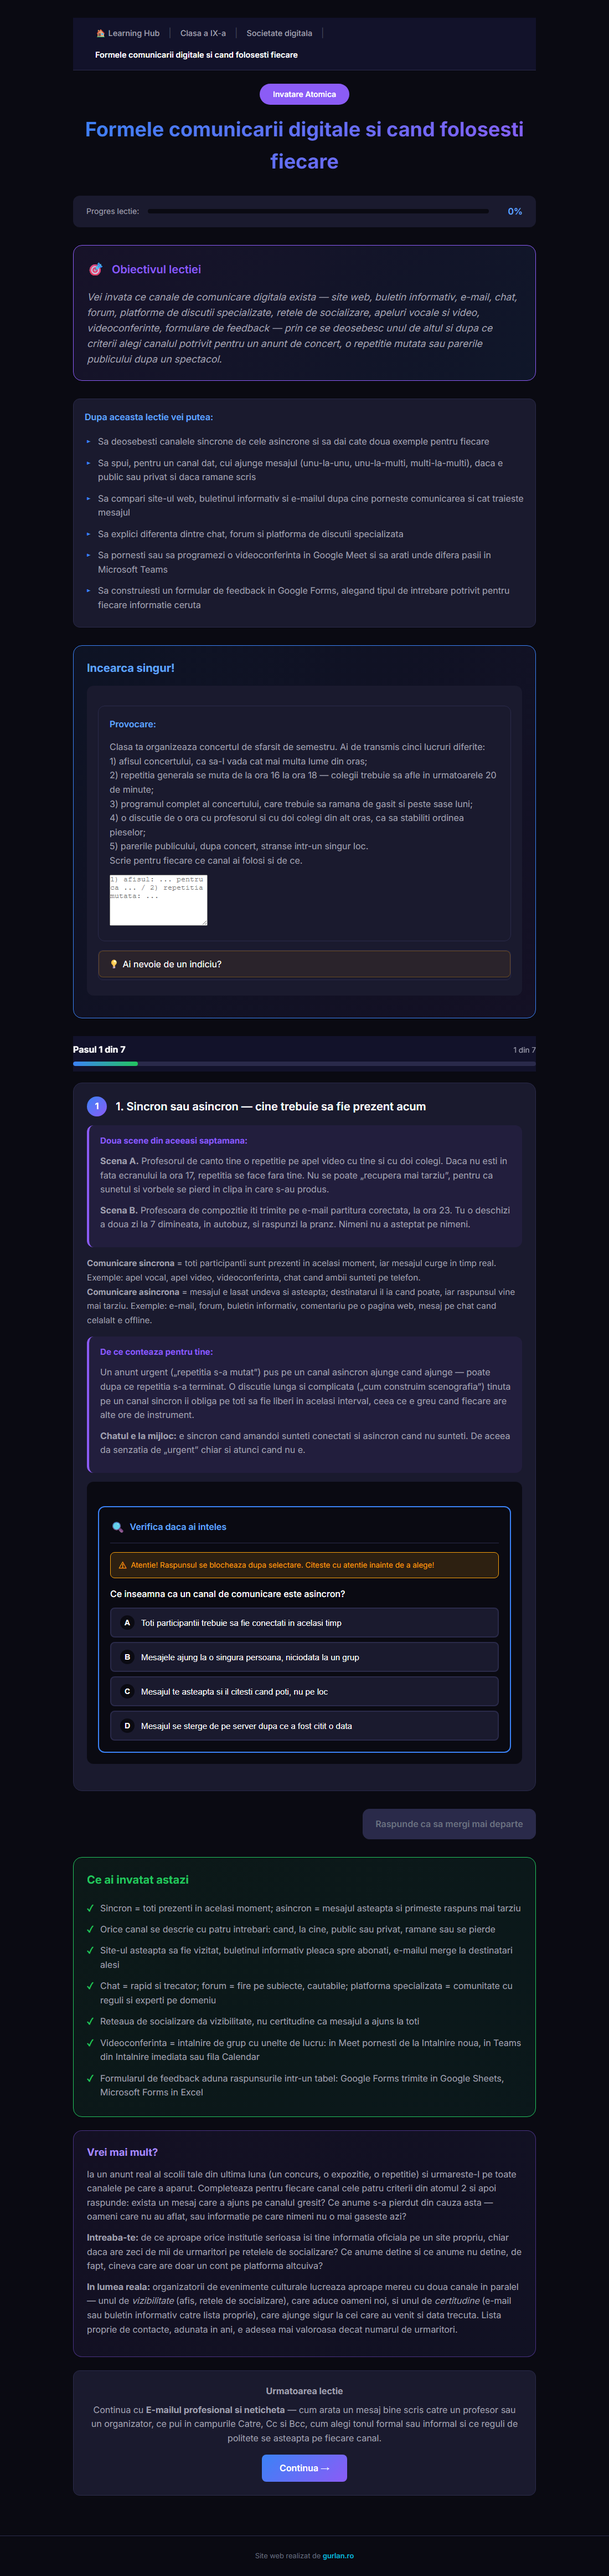
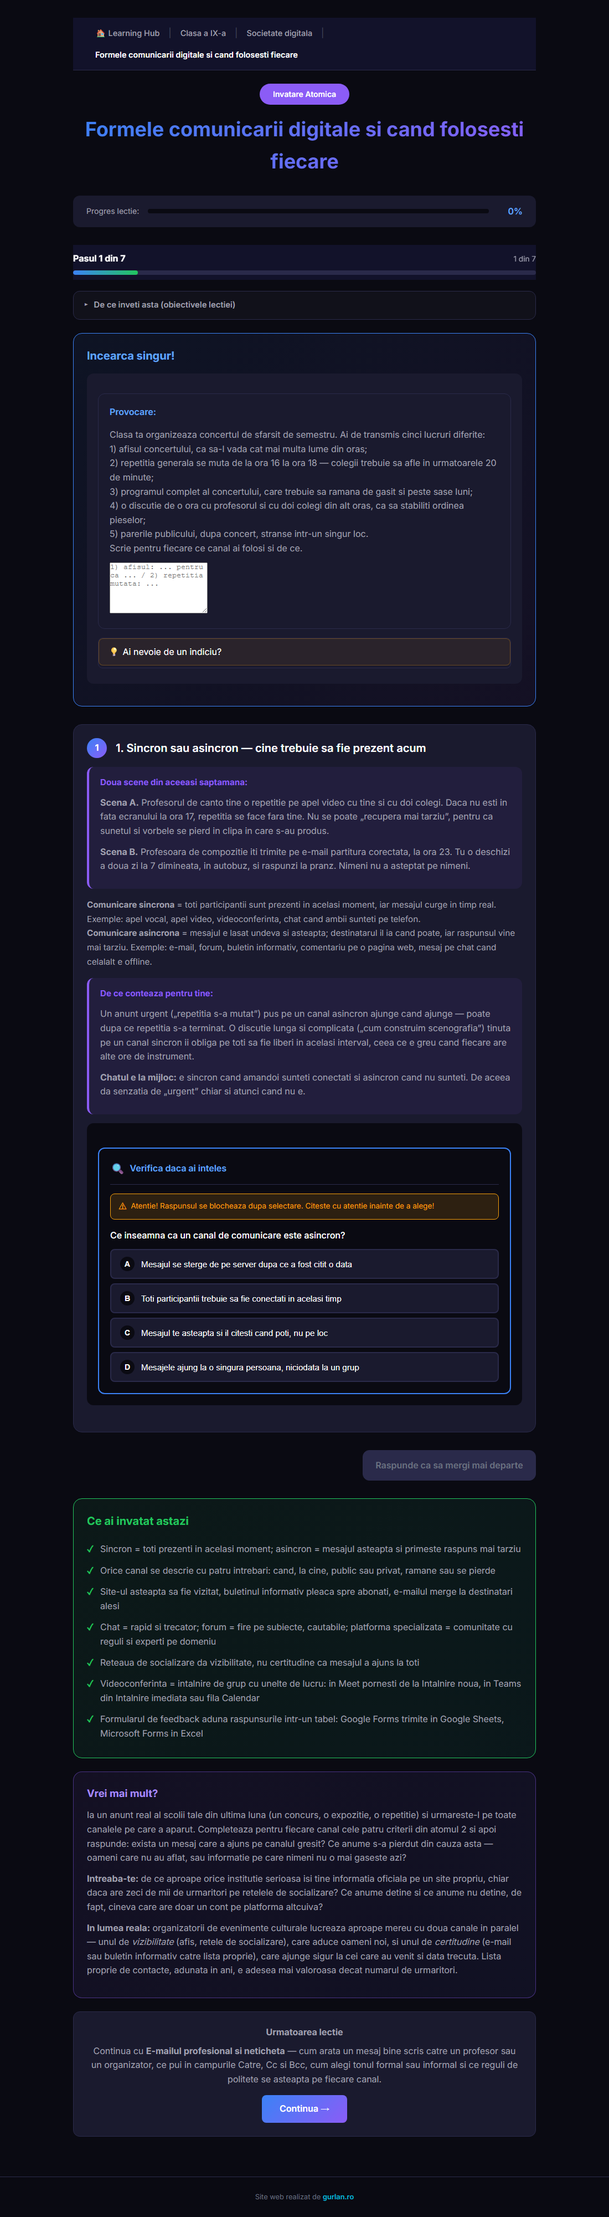
fix: exercitiile erau ascunse PE TOATE cele 531 de lectii + treaba urca sus in pagina
DEFECTUL MARE, gasit din intamplare verificand altceva. lesson-summary.js:121
(hookPracticeVisibility) ascundea sectiunea de exercitii si o readucea DOAR prin
ambalarea lui window.goToStep - functie din sablonul VECHI, cu pasi numerotati.
Lectiile atomice (Format C) n-au goToStep. Masurat: 531 din 531 de lectii incarca
lesson-summary.js, au sectiune de exercitii, si NU au goToStep. Adica exercitiile
n-au fost vazute niciodata de niciun elev, fara nicio eroare in consola.
Exact reclamatia elevului mediu din proba de calitate: 'nu pot lucra acasa'.
Reparatie: nu ascunde ce nu stii sa mai arati - daca goToStep nu exista, iesi.
Verificat pe 5 lectii din sectiuni diferite: ascunse la start, vizibile la final.

TREABA URCA SUS. Masurat pe 10 lectii: pana la 'Pasul 1 din N' erau in mediana
1560 px si 265 de cuvinte de derulat (obiective + 'incearca'). Acum contorul st
deasupra lor, iar obiectivele intra intr-un pliant inchis 'De ce inveti asta'.
Mediana: 1560 px -> 362 px. Primul ecran arata treaba, nu un eseu.

REZUMATUL NU SE MAI DA PE FATA. .practice-section (884 cuvinte) si .review-section
(357) sunt frati cu <main>, nu cu atomii, deci prima versiune a pasului-cu-pasul
le lasa pe ecran de la pasul 1 - ii dadea elevului raspunsurile inainte sa lucreze.
Acum se strang ambele niveluri de frati. Cuvinte vizibile la pasul 1: ~350-500,
fata de ~4000 cat are lectia intreaga.

Claude-Session: https://claude.ai/code/session_01DrdCvqfuucCCEoB13ow5VK

Changed region(s): [[0.1236, 0.0, 0.8964, 0.9685]]

diff --git a/assets/js/atomic-learning.js b/assets/js/atomic-learning.js
@@ -491,11 +491,25 @@ const AtomicLearning = {
         const parent = atomEls[0].parentNode;
         const acelasiParinte = atomEls.every(a => a.parentNode === parent);
 
-        // Ce vine DUPA ultimul atom (exercitii, recapitulare) - se arata la final.
+        /* Ce vine DUPA ultimul atom (exercitii, recapitulare) - se arata la final.
+           Atentie: in sabloanele lectiilor, `.practice-section` (884 cuvinte) si
+           `.review-section` (357) NU sunt frati cu atomii, ci frati cu <main>-ul
+           care-i contine. O prima versiune se uita doar langa atomi si le lasa pe
+           ecran de la pasul 1 - adica ii dadea elevului rezumatul si raspunsurile
+           inainte sa lucreze. Deci strangem ambele niveluri. */
         let dupaAtomi = [];
+        let dupaInParinte = [];      // doar copiii lui `parent`, pt. inserarea butonului
         if (acelasiParinte) {
             let n = atomEls[atomEls.length - 1].nextElementSibling;
-            while (n) { dupaAtomi.push(n); n = n.nextElementSibling; }
+            while (n) { dupaAtomi.push(n); dupaInParinte.push(n); n = n.nextElementSibling; }
+            let q = parent.nextElementSibling;
+            while (q) {
+                // nu ascundem subsolul / creditul sitului
+                if (!/footer|site-credit|credit/i.test(q.className + ' ' + q.tagName)) {
+                    dupaAtomi.push(q);
+                }
+                q = q.nextElementSibling;
+            }
         }
 
         // --- antetul cu pasul curent
@@ -506,7 +520,26 @@ const AtomicLearning = {
             '<div class="ux-step-line"><span class="ux-step-text"></span>' +
             '<span class="ux-step-pct"></span></div>' +
             '<div class="ux-step-bar"><div class="ux-step-fill"></div></div>';
-        parent.insertBefore(bara, atomEls[0]);
+
+        /* Unde se pune contorul. Masurat pe 10 lectii (12.09.2026): pana la
+           primul pas erau in mediana 1560 px si 265 de cuvinte de derulat —
+           obiectivele lectiei plus „incearca". Deci contorul urca DEASUPRA
+           lor: din prima secunda elevul vede „Pasul 1 din 7", nu un eseu.
+           Obiectivele nu se arunca, se pliaza. */
+        const frame = document.querySelector('.lesson-frame');
+        if (frame && frame.parentNode) {
+            frame.parentNode.insertBefore(bara, frame);
+
+            const fold = document.createElement('details');
+            fold.className = 'ux-frame-fold';
+            const sum = document.createElement('summary');
+            sum.textContent = 'De ce inveti asta (obiectivele lectiei)';
+            fold.appendChild(sum);
+            frame.parentNode.insertBefore(fold, frame);
+            fold.appendChild(frame);       // muta sectiunea intreaga inauntru
+        } else {
+            parent.insertBefore(bara, atomEls[0]);
+        }
 
         // --- butonul de inaintare
         const nav = document.createElement('div');
@@ -514,7 +547,7 @@ const AtomicLearning = {
         nav.innerHTML =
             '<button type="button" class="ux-step-back" hidden>&larr; Inapoi</button>' +
             '<button type="button" class="ux-step-next">Urmatorul pas &rarr;</button>';
-        if (acelasiParinte) parent.insertBefore(nav, dupaAtomi[0] || null);
+        if (acelasiParinte) parent.insertBefore(nav, dupaInParinte[0] || null);
         else atomEls[atomEls.length - 1].parentNode.appendChild(nav);
 
         const btnNext = nav.querySelector('.ux-step-next');
@@ -990,6 +1023,37 @@ const AtomicLearning = {
 
             /* --- „un atom = un ecran" --- */
             .ux-step-hidden { display: none !important; }
+
+            .ux-frame-fold {
+                margin: 0 0 1.5rem;
+                border: 1px solid var(--border, #2d2d44);
+                border-radius: 12px;
+                background: rgba(148, 163, 184, 0.05);
+            }
+
+            .ux-frame-fold > summary {
+                cursor: pointer;
+                padding: 0.8rem 1rem;
+                font-weight: 600;
+                font-size: 0.92rem;
+                color: var(--text-secondary, #94a3b8);
+                list-style: none;
+            }
+
+            .ux-frame-fold > summary::-webkit-details-marker { display: none; }
+
+            .ux-frame-fold > summary::before {
+                content: '\\25B8';
+                display: inline-block;
+                margin-right: 0.5rem;
+                transition: transform 0.2s;
+            }
+
+            .ux-frame-fold[open] > summary::before { transform: rotate(90deg); }
+
+            .ux-frame-fold > summary:hover { color: var(--text-primary, #f1f5f9); }
+
+            .ux-frame-fold .lesson-frame { margin: 0 1rem 1rem; }
 
             .ux-step-counter {
                 position: sticky;

diff --git a/assets/js/lesson-summary.js b/assets/js/lesson-summary.js
@@ -122,6 +122,17 @@ const LessonSummary = {
         const practiceEl = document.querySelector('.practice-section, #practice.practice-section');
         if (!practiceEl) return;
 
+        /* DEFECT REPARAT 12.09.2026: sectiunea de exercitii era ascunsa AICI, iar
+           singura cale de a o aduce inapoi era ambalarea lui `window.goToStep`.
+           Lectiile atomice (Format C) n-au goToStep — e din sablonul vechi, cu
+           pasi numerotati. Deci pe ele exercitiile ramaneau ascunse PENTRU
+           TOTDEAUNA: 884 de cuvinte de exercitii pe care niciun elev nu le-a
+           vazut vreodata, fara nicio eroare in consola.
+           Regula: nu ascunde ce nu stii sa mai arati. */
+        if (typeof window.goToStep !== 'function') {
+            return;
+        }
+
         // Hide practice initially (unless already on test/complete)
         const activeSection = document.querySelector('.section.active');
         const activeId = activeSection ? activeSection.id : '';
